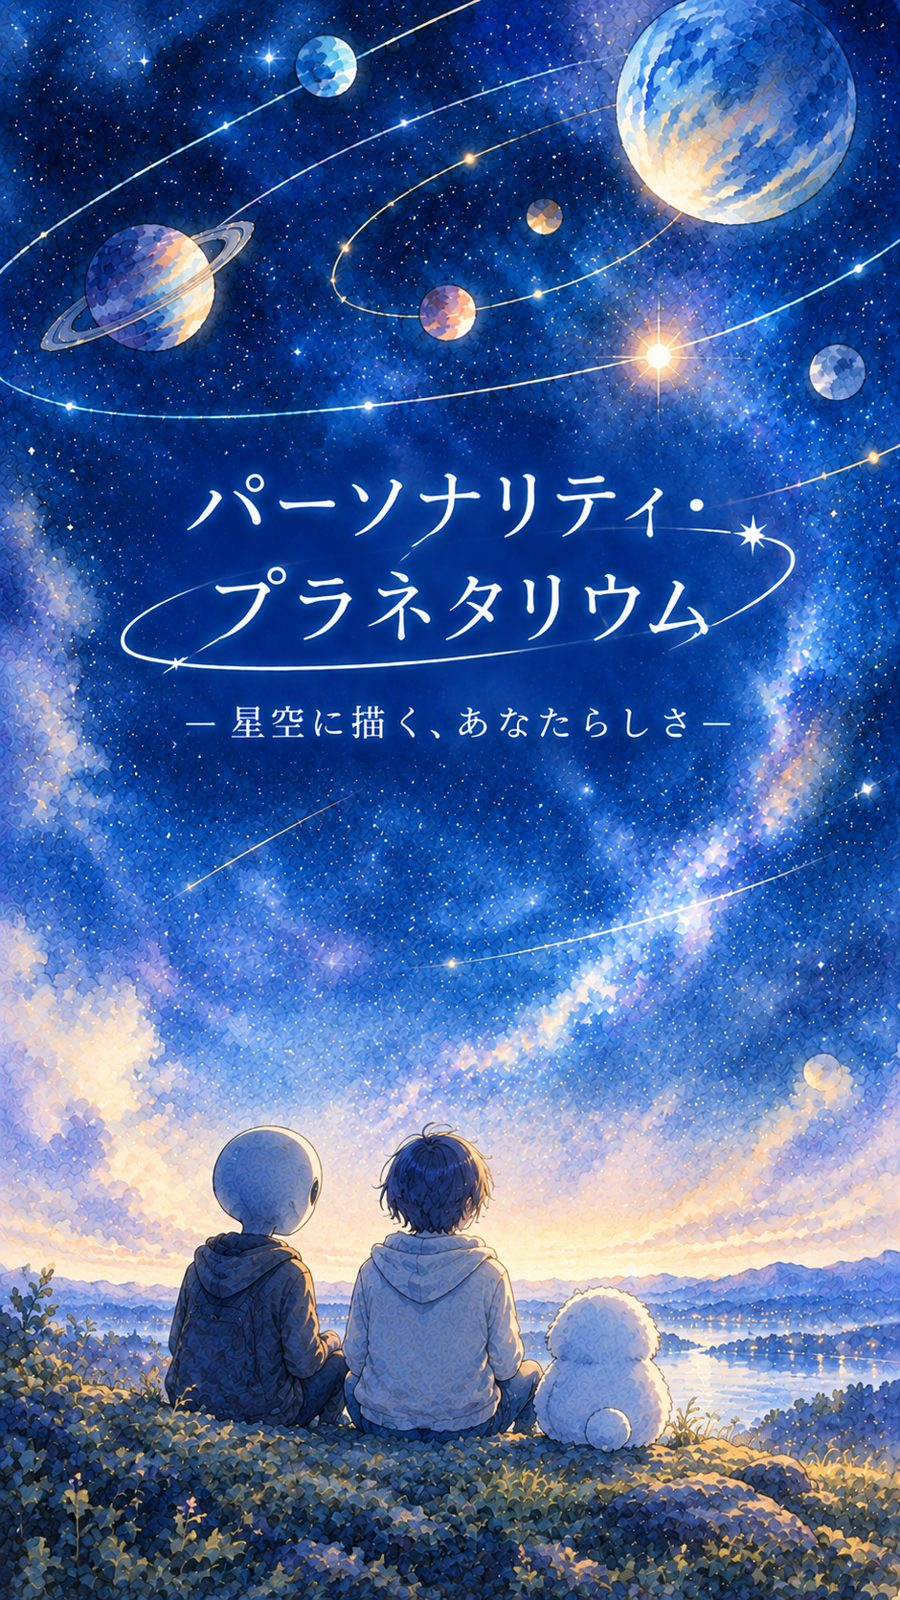
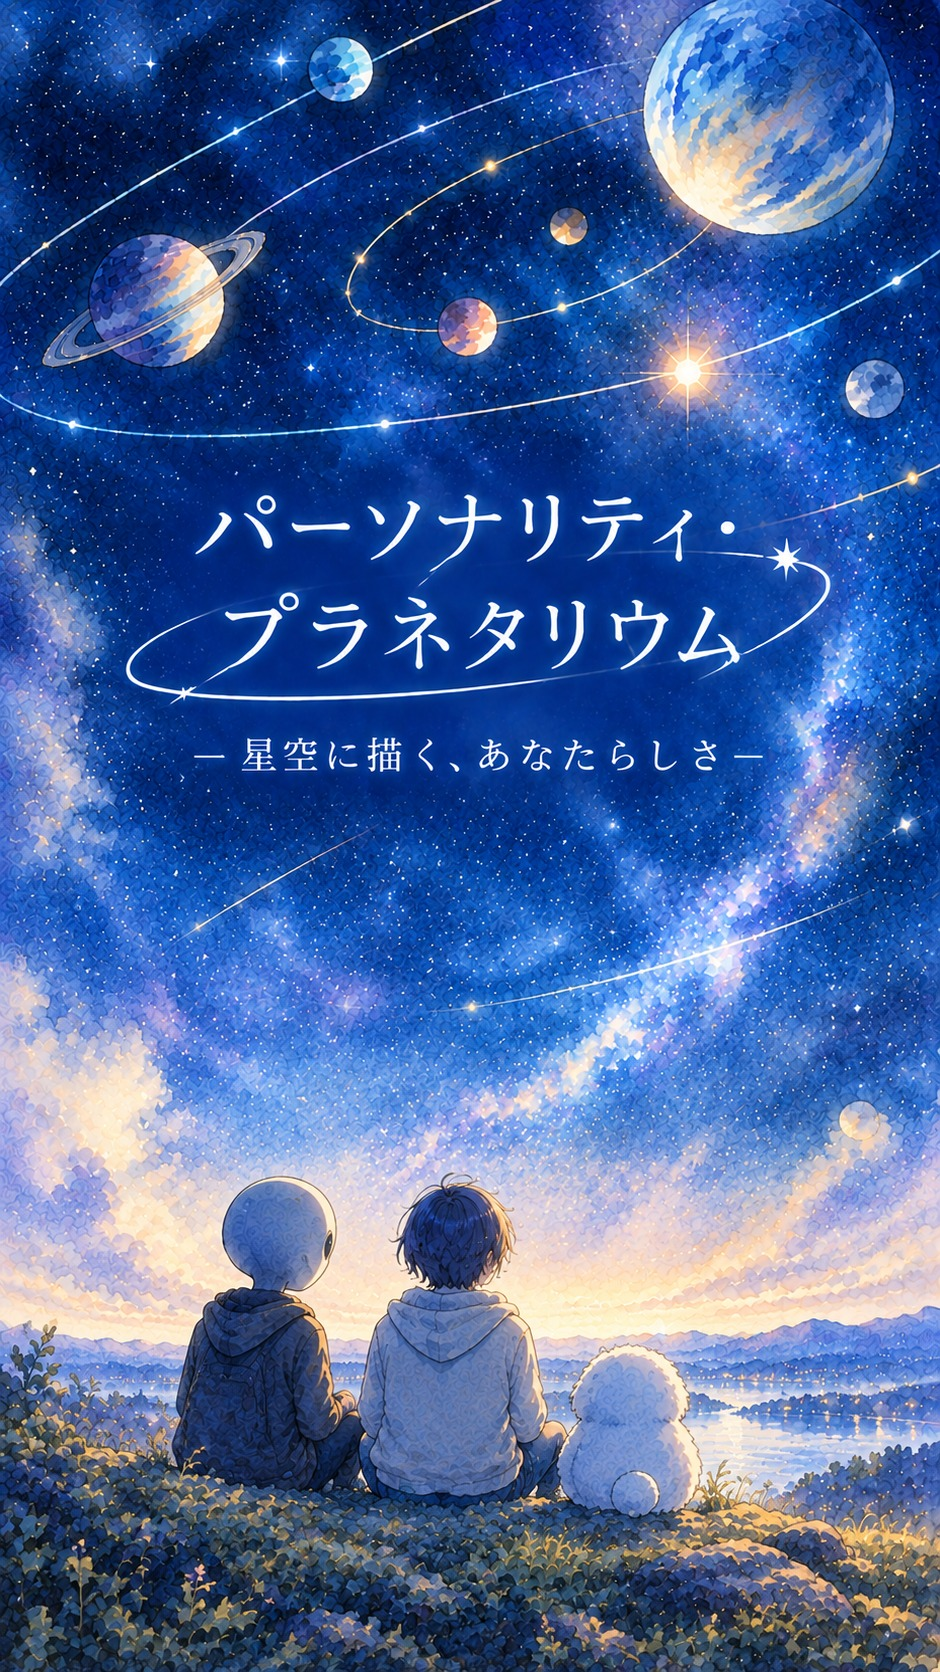
Add files via upload

diff --git a/index.html b/index.html
@@ -40,7 +40,7 @@ input:focus{border-color:#7f93ff}
 .ac{display:grid;grid-template-columns:repeat(4,1fr);gap:8px;margin-top:1em}.ac button{border-radius:14px;padding:.6em .2em;font-size:12px;line-height:1.5}.ac button[data-a=del]{color:#f0a0b0}
 #lk{position:fixed;top:calc(var(--st) + 56px);left:10px;z-index:6;display:none;align-items:center;gap:8px;background:rgba(20,30,80,.95);border:1px solid #7f93ff;border-radius:999px;padding:.3em .4em .3em 1em;font-size:14px}#lk.on{display:flex}#lk button{padding:.2em .8em}
 #ti,#fin{position:fixed;inset:0;z-index:30;display:flex;flex-direction:column;justify-content:flex-end;align-items:center;padding:0 24px calc(var(--sa) + 56px);transition:opacity 1s}
-#ti{background:linear-gradient(180deg,transparent 0%,transparent 45%,rgba(6,12,40,.35) 58%,rgba(6,12,40,.6) 66%,rgba(6,12,40,.6) 100%),url(title.jpg) center/cover #060c28;justify-content:flex-start;padding-top:calc(var(--st) + 52vh)}
+#ti{background:linear-gradient(180deg,transparent 0%,transparent 44%,rgba(6,12,40,.3) 55%,rgba(6,12,40,.48) 63%,rgba(6,12,40,.22) 72%,transparent 84%),url(title.jpg) center/cover #060c28;justify-content:flex-start;padding-top:calc(var(--st) + 52vh)}
 #ti .tir{display:flex;gap:10px;margin-top:14px}#ti .tir button{font-size:13px;padding:.55em 1em;background:rgba(6,12,40,.55)}
 #go{font-size:17px;padding:.7em 2em;background:rgba(6,12,40,.55)}
 #fin{background:rgba(6,12,40,.92);justify-content:center;text-align:center;opacity:0;pointer-events:none;letter-spacing:.15em;gap:.5em}

diff --git a/sw.js b/sw.js
@@ -1,4 +1,4 @@
-const V='pp-v14',A=['./','index.html','manifest.json','three.module.min.js','title.jpg','ogp.jpg','icons/icon-192.png','icons/icon-512.png','icons/icon-maskable-512.png','icons/apple-touch-icon.png'];
+const V='pp-v15',A=['./','index.html','manifest.json','three.module.min.js','title.jpg','ogp.jpg','icons/icon-192.png','icons/icon-512.png','icons/icon-maskable-512.png','icons/apple-touch-icon.png'];
 self.addEventListener('install',e=>{e.waitUntil(caches.open(V).then(c=>c.addAll(A)));self.skipWaiting()});
 self.addEventListener('activate',e=>{e.waitUntil(caches.keys().then(k=>Promise.all(k.filter(x=>x!==V).map(x=>caches.delete(x)))));self.clients.claim()});
 self.addEventListener('fetch',e=>{if(e.request.method!=='GET')return;e.respondWith(caches.match(e.request).then(r=>r||fetch(e.request)))});
